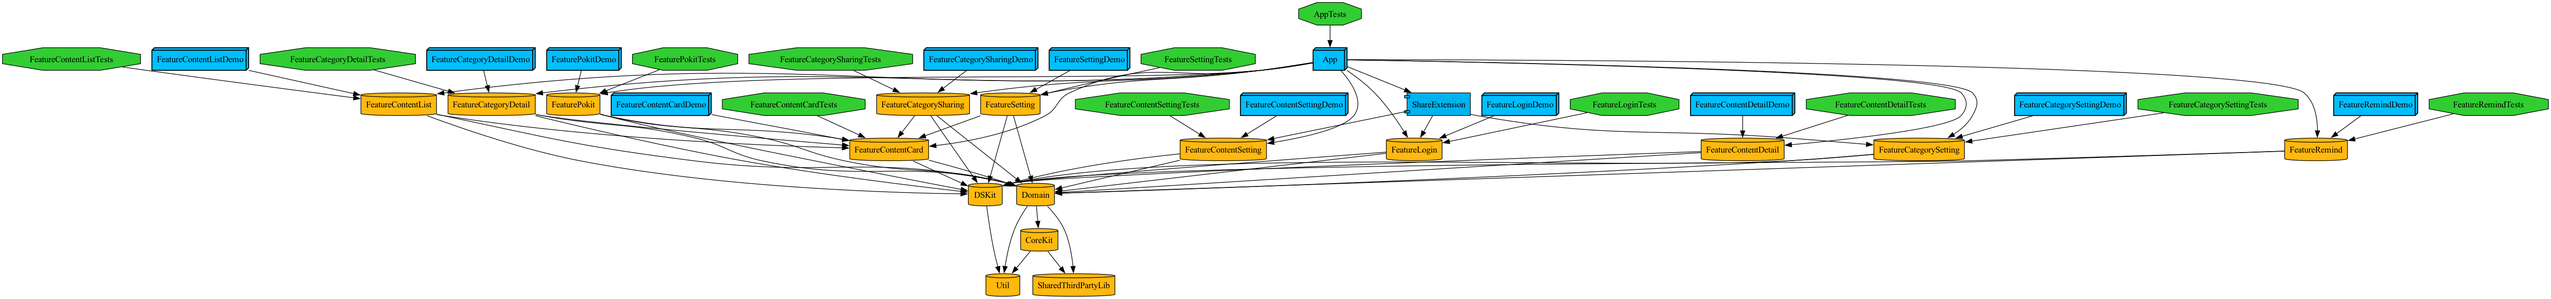
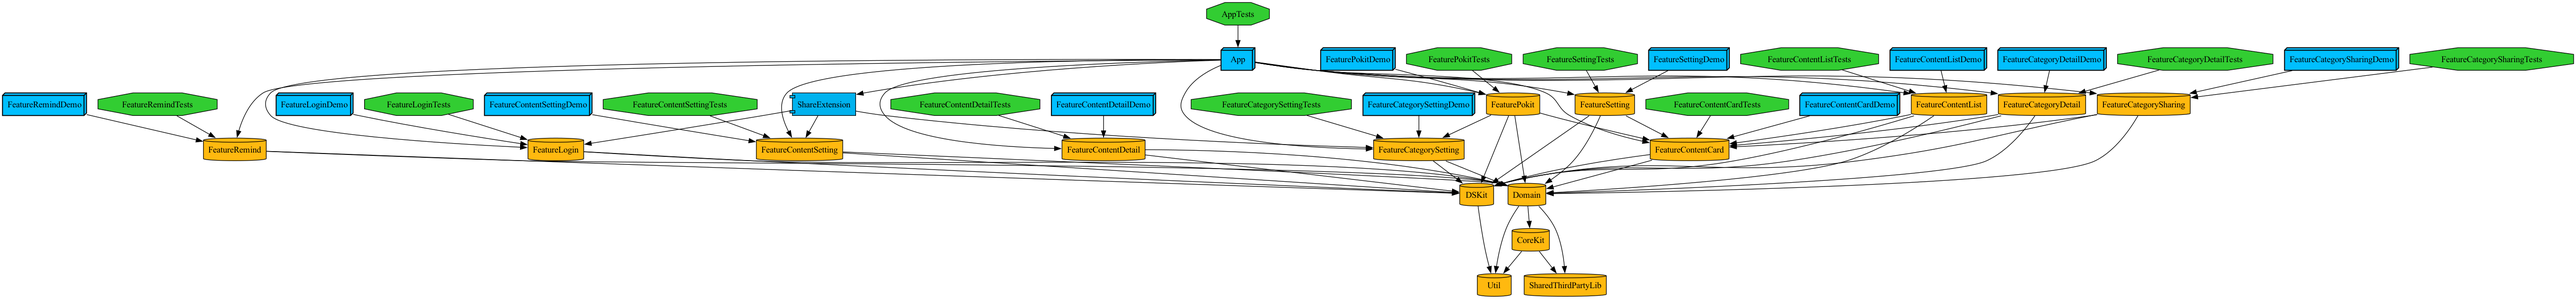
[hotfix] 서버 도메인 변경

diff --git a/Tuist/ProjectDescriptionHelpers/Feature.swift b/Tuist/ProjectDescriptionHelpers/Feature.swift
@@ -69,7 +69,8 @@ public enum Feature: String, CaseIterable {
         case .login: return []
         case .pokit:
             return [
-                .project(target: "FeatureContentCard", path: .relativeToRoot("Projects/Feature"))
+                .project(target: "FeatureContentCard", path: .relativeToRoot("Projects/Feature")),
+                .project(target: "FeatureCategorySetting", path: .relativeToRoot("Projects/Feature"))
             ]
         case .categoryDetail:
             return [

diff --git a/Projects/Util/Sources/Constants.swift b/Projects/Util/Sources/Constants.swift
@@ -8,7 +8,7 @@
 import Foundation
 
 public enum Constants {
-    public static let serverURL: URL = URL(string: "https://pokit.site")!
+    public static let serverURL: URL = URL(string: "https://pokit.cloud")!
     public static let userPath: String = "/api/v1/user"
     public static let authPath: String = "/api/v1/auth"
     public static let categoryPath: String = "/api/v1/category"
